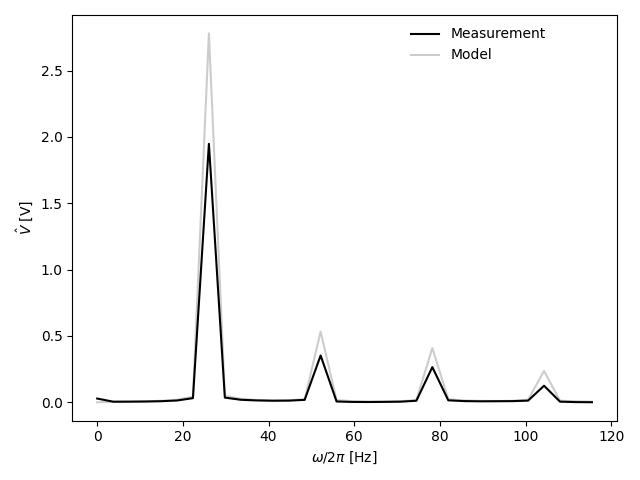
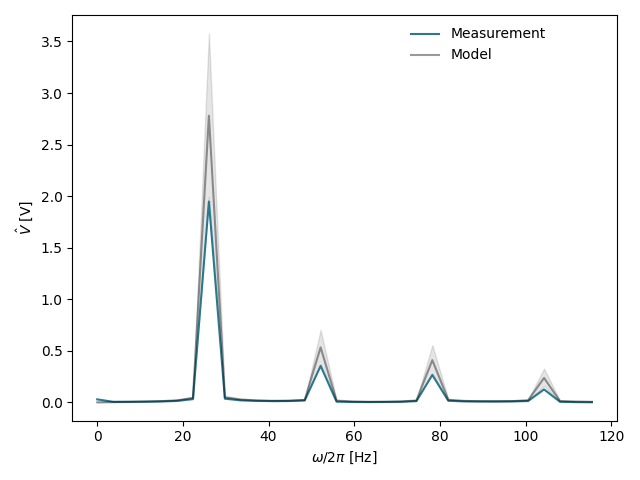
A vs A adjusted

diff --git a/results/frequency_domain.tex b/results/frequency_domain.tex
@@ -2,6 +2,7 @@
 \begin{tikzpicture}
 
 \definecolor{darkgray176}{RGB}{176,176,176}
+\definecolor{teal41120142}{RGB}{41,120,142}
 
 \begin{axis}[
 legend cell align={left},
@@ -21,10 +22,79 @@ xmin=-5.77419996261597, xmax=121.258199214935,
 xtick style={color=black},
 y grid style={darkgray176},
 ylabel={\(\displaystyle \hat{V}\) [V]},
-ymin=-0.138997563871923, ymax=2.91894884131038,
+ymin=-0.178904266692536, ymax=3.75698960054326,
 ytick style={color=black}
 ]
-\addplot [semithick, black]
+\path [draw=black, fill=black, opacity=0.1]
+(axis cs:0,0)
+--(axis cs:0,0)
+--(axis cs:3.72529029846191,0.00166710847034433)
+--(axis cs:7.45058059692383,0.00267101334211028)
+--(axis cs:11.1758708953857,0.0051106297516853)
+--(axis cs:14.9011611938477,0.00809535346100362)
+--(axis cs:18.6264514923096,0.0134942556451251)
+--(axis cs:22.3517417907715,0.0301987024400662)
+--(axis cs:26.0770320892334,1.99533124416358)
+--(axis cs:29.8023223876953,0.0342622651139756)
+--(axis cs:33.5276126861572,0.018927869826325)
+--(axis cs:37.2529029846191,0.0124301499813479)
+--(axis cs:40.978193283081,0.0102744039068718)
+--(axis cs:44.703483581543,0.0112035842683237)
+--(axis cs:48.4287738800049,0.0153466846750303)
+--(axis cs:52.1540641784668,0.3724307733233)
+--(axis cs:55.8793544769287,0.0112402770832272)
+--(axis cs:59.6046447753906,0.00569595673129157)
+--(axis cs:63.3299350738525,0.0035369086959961)
+--(axis cs:67.0552253723144,0.00348542906838298)
+--(axis cs:70.7805156707764,0.00536808137497962)
+--(axis cs:74.5058059692383,0.0114353441315618)
+--(axis cs:78.2310962677002,0.278650522328456)
+--(axis cs:81.9563865661621,0.0164037138650394)
+--(axis cs:85.681676864624,0.00902404906064522)
+--(axis cs:89.4069671630859,0.00725412777198568)
+--(axis cs:93.1322574615478,0.00633793882154671)
+--(axis cs:96.8575477600098,0.00758259736473895)
+--(axis cs:100.582838058472,0.0130553856875293)
+--(axis cs:104.308128356934,0.157656779535797)
+--(axis cs:108.033418655395,0.00796664841648609)
+--(axis cs:111.758708953857,0.00478391934744445)
+--(axis cs:115.483999252319,0.00297134125448343)
+--(axis cs:115.483999252319,0.00626233587994228)
+--(axis cs:115.483999252319,0.00626233587994228)
+--(axis cs:111.758708953857,0.0100350317591511)
+--(axis cs:108.033418655395,0.0166289965426552)
+--(axis cs:104.308128356934,0.327385881373274)
+--(axis cs:100.582838058472,0.0269645185318353)
+--(axis cs:96.8575477600098,0.0155730331416497)
+--(axis cs:93.1322574615478,0.0129404835092735)
+--(axis cs:89.4069671630859,0.0147207214561134)
+--(axis cs:85.681676864624,0.0181962164982441)
+--(axis cs:81.9563865661621,0.0328589138573248)
+--(axis cs:78.2310962677002,0.554371079891351)
+--(axis cs:74.5058059692383,0.0225903158779431)
+--(axis cs:70.7805156707764,0.0105276998792966)
+--(axis cs:67.0552253723144,0.00678468244460243)
+--(axis cs:63.3299350738525,0.00683257857411353)
+--(axis cs:59.6046447753906,0.0109183642498409)
+--(axis cs:55.8793544769287,0.0213775401581863)
+--(axis cs:52.1540641784668,0.702742590889047)
+--(axis cs:48.4287738800049,0.0287302564432291)
+--(axis cs:44.703483581543,0.020810762204643)
+--(axis cs:40.978193283081,0.0189389869281502)
+--(axis cs:37.2529029846191,0.0227427574669963)
+--(axis cs:33.5276126861572,0.0343850795237184)
+--(axis cs:29.8023223876953,0.0618244670115254)
+--(axis cs:26.0770320892334,3.57808533385073)
+--(axis cs:22.3517417907715,0.0538482749071142)
+--(axis cs:18.6264514923096,0.0239428944521665)
+--(axis cs:14.9011611938477,0.0143034722918447)
+--(axis cs:11.1758708953857,0.00899963761919102)
+--(axis cs:7.45058059692383,0.00469208948534788)
+--(axis cs:3.72529029846191,0.00292421447917748)
+--(axis cs:0,0)
+--cycle;
+
+\addplot [semithick, teal41120142]
 table {%
 0 0.028144262800293
 3.72529029846191 0.00459673788709407
@@ -60,7 +130,7 @@ table {%
 115.483999252319 0.000400983874696817
 };
 \addlegendentry{Measurement}
-\addplot [semithick, black, opacity=0.2]
+\addplot [semithick, black, opacity=0.4]
 table {%
 0 0
 3.72529029846191 0.002295547690846

diff --git a/results/thickness.tex b/results/thickness.tex
@@ -3,6 +3,7 @@
 
 \definecolor{darkgray176}{RGB}{176,176,176}
 \definecolor{gray}{RGB}{128,128,128}
+\definecolor{teal41120142}{RGB}{41,120,142}
 
 \begin{axis}[
 legend cell align={left},
@@ -14,6 +15,7 @@ legend style={
   anchor=north west,
   draw=none
 },
+log basis y={10},
 tick align=outside,
 tick pos=left,
 x grid style={darkgray176},
@@ -23,15 +25,27 @@ xtick style={color=black},
 xtick={0,1,2},
 xtick={0,1,2},
 xtick={0,1,2},
+xtick={0,1,2},
+xtick={0,1,2},
+xticklabels={12,28,116},
+xticklabels={12,28,116},
 xticklabels={12,28,116},
 xticklabels={12,28,116},
 xticklabels={12,28,116},
 y grid style={darkgray176},
 ylabel={\(\displaystyle A\)},
-ymin=0, ymax=4.7125416577986e-11,
+ymin=9.10458557707837e-12, ymax=1.08528817324762e-10,
+ymode=log,
 ytick style={color=black},
-ytick={0,1e-11,2e-11,3e-11,4e-11,5e-11},
-yticklabels={0,1,2,3,4,5}
+ytick={1e-13,1e-12,1e-11,1e-10,1e-09,1e-08},
+yticklabels={
+  \(\displaystyle {10^{-13}}\),
+  \(\displaystyle {10^{-12}}\),
+  \(\displaystyle {10^{-11}}\),
+  \(\displaystyle {10^{-10}}\),
+  \(\displaystyle {10^{-9}}\),
+  \(\displaystyle {10^{-8}}\)
+}
 ]
 \addplot [draw=black, fill=black, mark=*, only marks]
 table{%
@@ -44,30 +58,62 @@ x  y
 \addplot [draw=black, fill=black, mark options={rotate=90}, mark=triangle*, only marks]
 table{%
 x  y
+0 7.72866725493358e-11
+1 4.42492174441183e-11
+2 1.70315215247974e-11
+};
+\addlegendentry{Model}
+\addplot [draw=teal41120142, fill=teal41120142, mark=asterisk, only marks]
+table{%
+x  y
 0 3.09146690197343e-11
 1 3.1416944385324e-11
 2 1.54986845875656e-11
 };
-\addlegendentry{Model}
+\addlegendentry{Model adjusted}
 \path [draw=gray, semithick]
+(axis cs:0,5.76065526194191e-11)
+--(axis cs:0,9.69667924792524e-11);
+
+\path [draw=gray, semithick]
+(axis cs:1,3.29816873851768e-11)
+--(axis cs:1,5.55167475030598e-11);
+
+\path [draw=gray, semithick]
+(axis cs:2,1.26946497829973e-11)
+--(axis cs:2,2.13683932665974e-11);
+
+\addplot [semithick, gray, mark=-, mark size=5, mark options={solid}, only marks, forget plot]
+table {%
+0 5.76065526194191e-11
+1 3.29816873851768e-11
+2 1.26946497829973e-11
+};
+\addplot [semithick, gray, mark=-, mark size=5, mark options={solid}, only marks, forget plot]
+table {%
+0 9.69667924792524e-11
+1 5.55167475030598e-11
+2 2.13683932665974e-11
+};
+\path [draw=teal41120142, semithick]
 (axis cs:0,2.24573463417858e-11)
 --(axis cs:0,3.93719916976828e-11);
 
-\path [draw=gray, semithick]
+\path [draw=teal41120142, semithick]
 (axis cs:1,2.28222142896456e-11)
 --(axis cs:1,4.00116744810024e-11);
 
-\path [draw=gray, semithick]
+\path [draw=teal41120142, semithick]
 (axis cs:2,1.12587111122838e-11)
 --(axis cs:2,1.97386580628474e-11);
 
-\addplot [semithick, gray, mark=-, mark size=5, mark options={solid}, only marks, forget plot]
+\addplot [semithick, teal41120142, mark=-, mark size=5, mark options={solid}, only marks, forget plot]
 table {%
 0 2.24573463417858e-11
 1 2.28222142896456e-11
 2 1.12587111122838e-11
 };
-\addplot [semithick, gray, mark=-, mark size=5, mark options={solid}, only marks, forget plot]
+\addplot [semithick, teal41120142, mark=-, mark size=5, mark options={solid}, only marks, forget plot]
 table {%
 0 3.93719916976828e-11
 1 4.00116744810024e-11

diff --git a/all_thickness.py b/all_thickness.py
@@ -7,7 +7,7 @@ from src.classes import DataSet
 from src.utils import save_tex_fig
 from src.utils import ask_user_folder
 from src.utils import fit_V, model_quali_V
-from src.utils import get_specs, compute_A, compute_C
+from src.utils import get_specs, compute_A, compute_C, compute_A_adjusted
 
 
 ##########################################
@@ -17,7 +17,9 @@ from src.utils import get_specs, compute_A, compute_C
 all_thick       = np.array(np.sort([int(file[:-2]) for file in os.listdir('data') if not file.startswith('.')]), dtype=str)
 As_fit          = []
 As_theory       = []
+As_theory_adj   = []
 As_theory_err   = []
+As_theory_adj_err = []
 
 plt.figure()
 colors          = plt.cm.viridis(np.linspace(0, 1, len(all_thick)+1))
@@ -28,14 +30,19 @@ for (i, thickness) in enumerate(all_thick):
     specs       = get_specs(f'{int(thickness)}um')
     C           = compute_C(specs)
     A           = compute_A(specs)
+    A_adj       = compute_A_adjusted(specs)
 
     A_fit, _    = fit_V(np.concatenate(dataset.frequencies)*2*np.pi * np.concatenate(dataset.resistances),
                     np.concatenate(dataset.voltage) / np.concatenate(dataset.pressure),
                     C=C['nominal'])
     
     As_fit.append(A_fit)
+
     As_theory.append(A['nominal'])
     As_theory_err.append((A['upper'] - A['lower'])/2)
+
+    As_theory_adj.append(A_adj['nominal'])
+    As_theory_adj_err.append((A_adj['upper'] - A_adj['lower'])/2)
 
     plt.plot(np.concatenate(dataset.resistances)*2*np.pi*np.concatenate(dataset.frequencies),
                 np.concatenate(dataset.voltage) / np.concatenate(dataset.pressure),
@@ -71,9 +78,7 @@ for (i, thickness) in enumerate(all_thick):
 
     specs       = get_specs(f'{int(thickness)}um')
     C           = compute_C(specs)
-    A           = compute_A(specs)
     
-
     plt.plot(np.concatenate(dataset.resistances)*2*np.pi*np.concatenate(dataset.frequencies),
                 (np.concatenate(dataset.voltage) / np.concatenate(dataset.pressure))**2 / np.concatenate(dataset.resistances),
                 marker="o", linestyle='None', markersize=np.sqrt(4), 
@@ -103,12 +108,20 @@ print("\033[93mSaved to results/power_all_scaling\033[0m")
 
 plt.figure()
 l = np.linspace(10, 110, 1000)
+
 plt.scatter(all_thick, As_fit, color='black', label="Measurement", marker='o')
+
 plt.scatter(all_thick, As_theory, color='black', label="Model", marker='>')
 plt.errorbar(all_thick, As_theory, color='black', yerr=As_theory_err, capsize=5, ecolor='gray', fmt='none')
-plt.ylim(0, np.max(np.concatenate([As_fit, As_theory]))*1.5)
+
+color = plt.cm.viridis(0.4)
+plt.scatter(all_thick, As_theory_adj, color=color, label="Model adjusted", marker='*')
+plt.errorbar(all_thick, As_theory_adj, color=color, yerr=As_theory_adj_err, capsize=5, ecolor=color, fmt='none')
+
+# plt.ylim(0, np.smax(np.concatenate([As_fit, As_theory]))*1.5)
 plt.xlabel(rf"$\ell$ [um]")
 plt.ylabel(rf"$A$")
+plt.yscale('log')
 plt.legend(frameon=False, loc='upper left', ncols=1, bbox_to_anchor=(.6, 1))
 plt.tight_layout()
 plt.savefig(f"results/thickness.png")

diff --git a/frequency_domain.py b/frequency_domain.py
@@ -7,23 +7,44 @@ from src.utils import save_tex_fig
 from src.utils import ask_user_file
 from src.utils import get_fourier
 from src.utils.models import model_quant_V_freq
-from src.utils.coefficient import get_specs, compute_A, compute_C
+from src.utils.coefficient import get_specs, compute_A_adjusted, compute_C
 
 thickness, frequency, R_decade_box = ask_user_file()
 
-data         = Data(f'data/{int(thickness)}um/SingleMeasurement_{int(frequency)}Hz_{int(R_decade_box)}Ohms.csv')
-specs        = get_specs(f'{int(thickness)}um')
+data            = Data(f'data/{int(thickness)}um/SingleMeasurement_{int(frequency)}Hz_{int(R_decade_box)}Ohms.csv')
+specs           = get_specs(f'{int(thickness)}um')
 
-voltate_fft  = get_fourier(data.voltage)
-model_fft    = model_quant_V_freq(data.time, data.pressure,
-                                A = compute_A(specs)['nominal'], C = compute_C(specs)['nominal'], R_decade_box = R_decade_box,
+A               = compute_A_adjusted(specs)
+C               = compute_C(specs)
+
+voltate_fft     = get_fourier(data.voltage)
+model_fft       = model_quant_V_freq(data.time, data.pressure,
+                                A = A['nominal'], C = C['nominal'], R_decade_box = R_decade_box,
                                 filter_window=21)
 
-max_idx      = np.argwhere(data.frequency > frequency*4.5)[0][0]
+model_bounds     = np.array([
+    model_quant_V_freq(data.time, data.pressure,
+                                A = A['lower'], C = C['lower'], R_decade_box = R_decade_box,
+                                filter_window=21),
+    model_quant_V_freq(data.time, data.pressure,
+                                A = A['lower'], C = C['upper'], R_decade_box = R_decade_box,
+                                filter_window=21),
+    model_quant_V_freq(data.time, data.pressure,
+                                A = A['upper'], C = C['lower'], R_decade_box = R_decade_box,
+                                filter_window=21),
+    model_quant_V_freq(data.time, data.pressure,
+                                A = A['upper'], C = C['upper'], R_decade_box = R_decade_box,
+                                filter_window=21)
+])
+
+max_idx         = np.argwhere(data.frequency > frequency*4.5)[0][0]
 
 plt.figure()
-plt.plot(data.frequency[:max_idx], voltate_fft[:max_idx], label="Measurement", color='black')
-plt.plot(data.frequency[:max_idx], model_fft[:max_idx], label="Model", color='black', alpha=0.2)
+plt.plot(data.frequency[:max_idx], voltate_fft[:max_idx], label="Measurement", color=plt.cm.viridis(0.4))
+plt.plot(data.frequency[:max_idx], model_fft[:max_idx], label="Model", color="black", alpha=0.4)
+plt.fill_between(data.frequency[:max_idx], np.min(model_bounds, axis=0)[:max_idx],
+                    np.max(model_bounds, axis=0)[:max_idx],
+                    color='black', alpha=0.1)
 plt.xlabel(rf"$\omega / 2\pi$ [Hz]")
 plt.ylabel(r"$\hat{V}$ [V]")
 plt.legend(frameon=False, loc='upper left', ncols=1, bbox_to_anchor=(.6, 1))

diff --git a/src/utils/coefficient.py b/src/utils/coefficient.py
@@ -19,16 +19,24 @@ def get_specs(config):
 
     return values
 
-def compute_A(values):
+def compute_A(values, log=True):
     """
     Calculate the value of the coefficient A from the specifications.
     """
     q31 = (values['d31'] + values['nu']*values['d33']) / ( (1-values['nu']) / values['ez'] - 2 * (values['nu'])**2 / values['ez'])
 
-    A = values['ap'] * q31 * ( 3 * (1-values['nu']) / (7 - values['nu']) * values['rp'] / (values['l']*values['ez'])) ** (2/3) * values['gam']
-    print(f'A    = {A.nominal_value:8.2e} ± {A.std_dev:.2e}')
+    A = values['ap'] * q31 * ( 3 * (1-values['nu']) / (7 - values['nu']) * values['rp'] / (values['l']*values['ez'])) ** (2/3)
+    if log : print(f'A    = {A.nominal_value:8.2e} ± {A.std_dev:.2e}')
 
-    return {"nominal":A.nominal_value, "lower":A.nominal_value - A.std_dev, "upper":A.nominal_value + A.std_dev}
+    return {"raw": A, "nominal":A.nominal_value, "lower":A.nominal_value - A.std_dev, "upper":A.nominal_value + A.std_dev}
+
+def compute_A_adjusted(values):
+    """
+    Calculate the value of the coefficient A from the specifications, accounting for the gold thickness.
+    """
+    A = compute_A(values, log=False)["raw"] * values['gam']
+
+    return {"raw": A, "nominal":A.nominal_value, "lower":A.nominal_value - A.std_dev, "upper":A.nominal_value + A.std_dev}
 
 def compute_C(values):
     """
@@ -37,4 +45,4 @@ def compute_C(values):
     C   = values['eps'] * 8.85e-12 * values['ae'] / values['l']
     print(f'C    = {C.nominal_value:8.2e} ± {C.std_dev:.2e}')
 
-    return {"nominal":C.nominal_value, "lower":C.nominal_value - C.std_dev, "upper":C.nominal_value + C.std_dev}
+    return {"raw": C, "nominal":C.nominal_value, "lower":C.nominal_value - C.std_dev, "upper":C.nominal_value + C.std_dev}

diff --git a/time_trace.py b/time_trace.py
@@ -6,7 +6,7 @@ from src.classes import Data
 from src.utils import save_tex_fig
 from src.utils import ask_user_file
 from src.utils import model_quant_V_trace
-from src.utils import get_specs, compute_A, compute_C
+from src.utils import get_specs, compute_A_adjusted, compute_C
 from src.utils import smooth, smooth_derivative
 
 thickness, frequency, R_decade_box = ask_user_file()
@@ -14,7 +14,7 @@ thickness, frequency, R_decade_box = ask_user_file()
 data            = Data(f'data/{int(thickness)}um/SingleMeasurement_{int(frequency)}Hz_{int(R_decade_box)}Ohms.csv')
 specs           = get_specs(f'{int(thickness)}um')
 
-A               = compute_A(specs)
+A               = compute_A_adjusted(specs)
 C               = compute_C(specs)
 
 model_trace     = model_quant_V_trace(data.time, data.pressure,

diff --git a/src/utils/__init__.py b/src/utils/__init__.py
@@ -1,4 +1,4 @@
-from .coefficient       import get_specs, compute_A, compute_C
+from .coefficient       import get_specs, compute_A, compute_C, compute_A_adjusted
 from .fft               import get_fourier, get_frequency
 from .models            import model_quant_V_freq, model_quant_V_trace, R_effective, model_quali_V
 from .file_extractor    import extract_files_dir, extract_file
